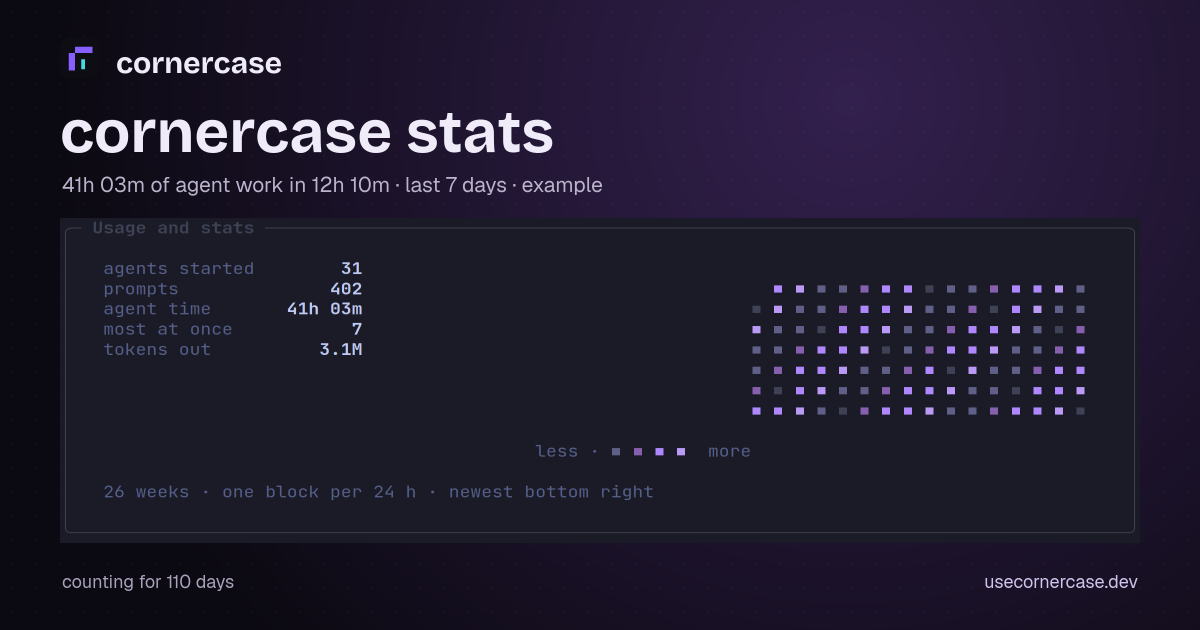
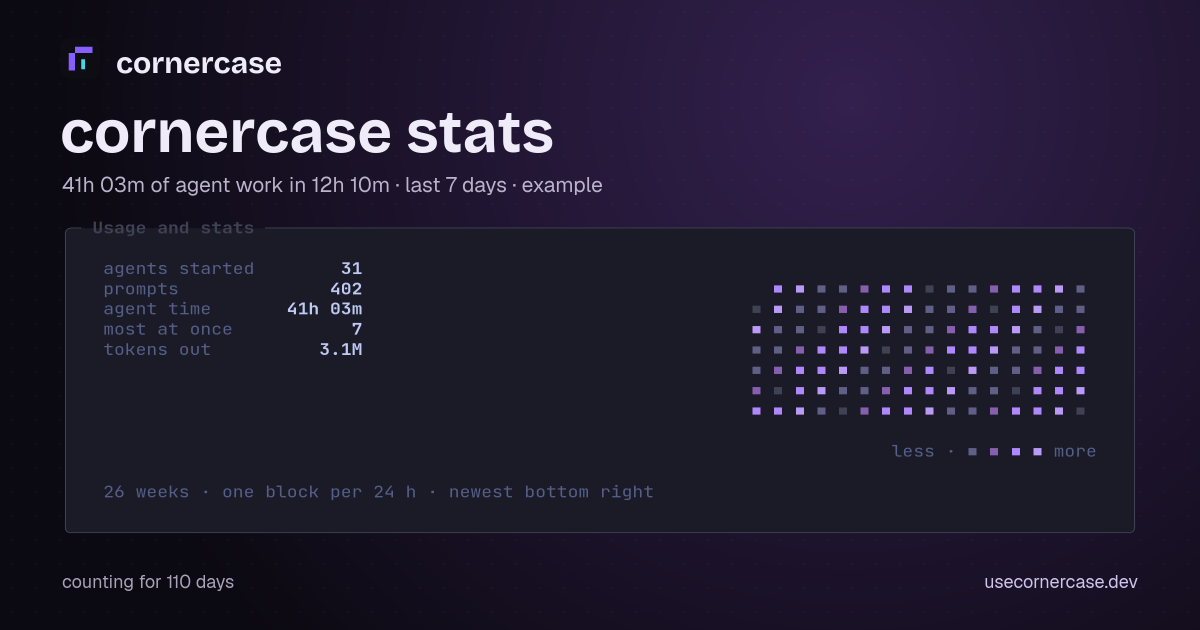
fix: preserve agent starts and refine stats rendering

diff --git a/site/src/lib/stats/card.ts b/site/src/lib/stats/card.ts
@@ -14,9 +14,9 @@ export function cardGrid(stats: Stats, window: WindowName): Grid {
     const level = stats.levels[i];
     if (level !== undefined) grid.put(44 + week * 2, 3 + row, '■', { fg: ramp[level] });
   }
-  grid.text(44, 11, 'less · ', { fg: 8 });
-  for (let level = 1; level <= 4; level++) grid.put(49 + level * 2, 11, '■', { fg: ramp[level] });
-  grid.text(60, 11, 'more', { fg: 8 });
+  grid.text(77, 11, 'less · ', { fg: 8 });
+  for (let level = 1; level <= 4; level++) grid.put(82 + level * 2, 11, '■', { fg: ramp[level] });
+  grid.text(92, 11, 'more', { fg: 8 });
   grid.text(4, 13, '26 weeks · one block per 24 h · newest bottom right', { fg: 8 });
   return grid;
 }
@@ -45,9 +45,12 @@ export function drawCard(canvas: HTMLCanvasElement, stats: Stats, window: Window
   const n = stats.windows[window];
   ctx.font = '400 21px "Geist Variable"'; ctx.fillStyle = '#bbb3cb';
   ctx.fillText(`${duration(n[2])} of agent work in ${duration(n[3])} · ${LABELS[window]}${example ? ' · example' : ''}`, 62, 192);
-  const terminal = document.createElement('canvas'); const view = new CanvasView(terminal);
+  const terminal = document.createElement('canvas'); const view = new CanvasView(terminal, undefined, true);
   view.measure(1080, 100, 16, 2); view.draw(cardGrid(stats, window), null, false, true);
   const y = preview ? 218 : 231; const h = preview ? 325 : 359.4;
+  const cw = 1080 / 100, ch = h / 16;
+  ctx.fillStyle = view.theme.background;
+  ctx.beginPath(); ctx.roundRect(60 + cw / 2, y + ch / 2, 1080 - cw, h - ch, cw / 2); ctx.fill();
   ctx.drawImage(terminal, 60, y, 1080, h);
   ctx.font = '400 18px "Geist Variable"'; ctx.fillStyle = '#aaa2ba';
   ctx.fillText(`counting for ${stats.days} days`, 62, preview ? 588 : 634);

diff --git a/site/tests/usage.test.ts b/site/tests/usage.test.ts
@@ -6,13 +6,16 @@ import { usageArea } from '../src/lib/demo/layout';
 
 for (const columns of [110, 46]) test(`Usage opens on Stats and keeps its border at ${columns} columns`, () => {
   const app = new App(); app.virtual = true; app.resize(columns, 38); world(app, { scripted: true });
-  app.openUsage(); app.render();
+  app.openUsage(); const { grid } = app.render();
   assert.equal(app.usage.page, 1); assert.equal(app.usage.loading, false);
   assert.ok(app.textAt('agents started')); assert.ok(app.textAt('tokens from cache')); assert.ok(app.textAt('share'));
-  const height = columns === 110 ? 21 : 23;
+  const height = columns === 110 ? 22 : 24;
   const stats = usageArea(columns, 38, height);
   const label = app.textAt('agents started'); assert.ok(label);
   assert.equal(label.x, stats.x + 2);
+  const share = app.textAt('share'); assert.ok(share);
+  const blank = grid.line(share.y - 1);
+  assert.equal(blank.slice(stats.x + 1, stats.x + stats.w - 1).trim(), '');
   app.usagePage(0); app.render(); assert.equal(app.usage.loading, true);
   assert.deepEqual(usageArea(columns, 38, height), stats);
   app.advance(1500); app.render(); assert.ok(app.textAt('resets in'));

diff --git a/site/src/lib/term/canvas.ts b/site/src/lib/term/canvas.ts
@@ -30,9 +30,9 @@ export class CanvasView {
   onImage: (() => void) | null = null;
   private pictures = new Map<string, HTMLImageElement>();
 
-  constructor(canvas: HTMLCanvasElement, t: Theme = defaultTheme) {
+  constructor(canvas: HTMLCanvasElement, t: Theme = defaultTheme, private transparent = false) {
     this.canvas = canvas;
-    const ctx = canvas.getContext('2d', { alpha: false });
+    const ctx = canvas.getContext('2d', { alpha: transparent });
     if (!ctx) throw new Error('no 2d context');
     this.ctx = ctx;
     this.theme = t;
@@ -68,8 +68,8 @@ export class CanvasView {
     const { ctx, cwD, chD } = this;
     const t = this.theme;
     ctx.globalAlpha = 1;
-    ctx.fillStyle = t.background;
-    ctx.fillRect(0, 0, this.canvas.width, this.canvas.height);
+    if (this.transparent) ctx.clearRect(0, 0, this.canvas.width, this.canvas.height);
+    else { ctx.fillStyle = t.background; ctx.fillRect(0, 0, this.canvas.width, this.canvas.height); }
     const lw = Math.max(1, Math.round(this.dpr));
     const ops = paint(grid, { cw: cwD, ch: chD, lw, snap: Math.round, theme: t });
     const size = cwD / 0.6;

diff --git a/site/tests/stats.test.ts b/site/tests/stats.test.ts
@@ -66,3 +66,9 @@ test('the first counting day shares its current heatmap square', () => {
   assert.ok(link.endsWith('&days=0&map=IA'));
   assert.deepEqual(parse(new URL(link).hash)?.levels, [1]);
 });
+
+test('the legend ends at the right edge of the heatmap', () => {
+  const grid = cardGrid(EXAMPLE, '7d');
+  assert.equal(grid.line(11).slice(77, 96), 'less · ■ ■ ■ ■ more');
+  assert.equal(grid.line(11).slice(1, 77).trim(), '');
+});

diff --git a/site/src/lib/demo/ui.ts b/site/src/lib/demo/ui.ts
@@ -1148,6 +1148,7 @@ export class Painter {
     const legend: Line = [seg('less · ', DARK), ...[1,2,3,4].map((level) => seg('■ ', { fg: ramp[level] })), seg('more', DARK)];
     if (left.length + 19 > width) lines.push([seg(left, DARK)], legend);
     else lines.push([seg(left + ' '.repeat(width - left.length - 19), DARK), ...legend]);
+    lines.push([]);
     return lines;
   }
 

diff --git a/src/context.rs b/src/context.rs
@@ -269,7 +269,7 @@ impl Subagents {
                 let records = batch
                     .bytes
                     .split(|b| *b == b'\n')
-                    .filter_map(|line| serde_json::from_slice::<Value>(line).ok())
+                    .filter_map(claude_entry)
                     .filter_map(|entry| counted_claude(&entry, false))
                     .collect();
                 self.records.push((path.clone(), records));
@@ -396,13 +396,24 @@ impl Transcript {
         }
         let read_at = SystemTime::now();
         for line in batch.bytes.split(|b| *b == b'\n') {
-            let Ok(entry) = serde_json::from_slice::<Value>(line) else { continue };
+            let Some(entry) = claude_entry(line) else { continue };
             self.prompted = self.prompted.max(prompt(&entry, read_at));
             if let Some(record) = counted_claude(&entry, true) {
                 self.counted.push(record);
             }
         }
     }
+}
+
+fn relevant_claude(line: &str) -> bool {
+    [r#""usage""#, r#""origin""#, "queued_command", COMMAND, SHELL_INPUT, r#""operation""#, COMPACT_BOUNDARY]
+        .iter()
+        .any(|marker| line.contains(marker))
+}
+
+fn claude_entry(line: &[u8]) -> Option<Value> {
+    let line = std::str::from_utf8(line).ok()?;
+    relevant_claude(line).then(|| serde_json::from_str(line).ok()).flatten()
 }
 
 fn text(entry: &Value) -> &str {
@@ -464,7 +475,7 @@ enum Mark {
 
 fn mark(line: &[u8]) -> Option<Mark> {
     let line = std::str::from_utf8(line).ok()?;
-    if !line.contains(ASSISTANT) && !line.contains(COMPACT_BOUNDARY) {
+    if !(line.contains(COMPACT_BOUNDARY) || line.contains(ASSISTANT) && line.contains(r#""usage""#)) {
         return None;
     }
     let entry: Entry = serde_json::from_str(line).ok()?;
@@ -1242,6 +1253,30 @@ mod counting_records {
     use crate::test_util::{TempDir, wait_until};
 
     const FIXTURE: &str = include_str!("../tests/fixtures/claude/2.1.296/usage.jsonl");
+
+    #[rstest::rstest]
+    #[case::reply(r#"{"type":"assistant","message":{"usage":{"output_tokens":1}}}"#, true)]
+    #[case::typed(r#"{"type":"user", "origin": {"kind":"human"}}"#, true)]
+    #[case::absorbed(r#"{"type":"attachment","attachment":{"type":"queued_command"}}"#, true)]
+    #[case::queued(r#"{"type":"queue-operation", "operation": "enqueue"}"#, true)]
+    #[case::slash(r#"{"type":"system","content":"<command-name>/synthetic"}"#, true)]
+    #[case::shell(r#"{"type":"user","message":{"content":"<bash-input>synthetic"}}"#, true)]
+    #[case::compacted(r#"{"type":"system","subtype":"compact_boundary"}"#, true)]
+    #[case::tool_result(
+        r#"{"type":"user","message":{"content":[{"type":"tool_result","content":"synthetic"}]}}"#,
+        false
+    )]
+    #[case::tool_input(
+        r#"{"type":"assistant","message":{"content":[{"type":"tool_use","input":{"content":"synthetic"}}]}}"#,
+        false
+    )]
+    #[case::metadata(r#"{"type":"file-history-snapshot","snapshot":{}}"#, false)]
+    fn only_lines_that_can_change_context_or_counts_reach_json_parsing(#[case] line: &str, #[case] relevant: bool) {
+        assert_eq!(relevant_claude(line), relevant);
+        assert_eq!(claude_entry(line.as_bytes()).is_some(), relevant);
+        let large = line.replace("synthetic", &"x".repeat(300_000));
+        assert_eq!(claude_entry(large.as_bytes()).is_some(), relevant);
+    }
 
     #[test]
     fn repeated_message_usage_and_conversation_resets_count_once() {

diff --git a/src/stats.rs b/src/stats.rs
@@ -182,6 +182,7 @@ pub struct Stats {
     total: Bucket,
     hours: BTreeMap<u64, Bucket>,
     previous: HashMap<u64, Sample>,
+    started: HashMap<u64, (Kind, i32)>,
     revision: u64,
     pruned_hour: Option<u64>,
 }
@@ -226,6 +227,7 @@ impl Stats {
             total: Bucket::default(),
             hours: BTreeMap::new(),
             previous: HashMap::new(),
+            started: HashMap::new(),
             revision: 0,
             pruned_hour: None,
         }
@@ -253,7 +255,7 @@ impl Stats {
         let mut simultaneous = 0;
         let mut busy = false;
         for &sample in samples {
-            if self.previous.get(&sample.pane).is_none_or(|s| (s.kind, s.pid) != (sample.kind, sample.pid))
+            if self.started.insert(sample.pane, (sample.kind, sample.pid)) != Some((sample.kind, sample.pid))
                 && !sample.resuming
             {
                 self.add(now, sample.kind, Counts { agents: 1, ..Counts::default() });
@@ -722,7 +724,7 @@ pub(crate) mod tests {
         assert_eq!((c.agent_seconds, c.turns, c.waited_seconds), (1.0, 2, 2.0));
     }
     #[test]
-    fn automatic_resumes_are_suppressed_and_reused_pids_count_as_new_agents() {
+    fn automatic_resumes_stay_suppressed_after_a_foreground_absence() {
         let mut stats = Stats::new(at(1_000));
         let mut s = working(1, Kind::Claude);
         s.resuming = true;
@@ -733,9 +735,19 @@ pub(crate) mod tests {
         stats.sample(at(1_000), Duration::ZERO, &[]);
         assert!(stats.previous.is_empty());
         stats.sample(at(1_000), Duration::ZERO, &[s]);
+        assert_eq!(stats.view(at(1_000)).windows["total"].counts.agents, 0);
+    }
+
+    #[test]
+    fn an_agent_returning_from_an_editor_counts_only_when_its_pid_changes() {
+        let mut stats = Stats::new(at(1_000));
+        let mut sample = working(1, Kind::Claude);
+        stats.sample(at(1_000), Duration::ZERO, &[sample]);
+        stats.sample(at(1_000), Duration::ZERO, &[]);
+        stats.sample(at(1_000), Duration::ZERO, &[sample]);
         assert_eq!(stats.view(at(1_000)).windows["total"].counts.agents, 1);
-        s.pid = 2;
-        stats.sample(at(1_000), Duration::ZERO, &[s]);
+        sample.pid = 2;
+        stats.sample(at(1_000), Duration::ZERO, &[sample]);
         assert_eq!(stats.view(at(1_000)).windows["total"].counts.agents, 2);
     }
     #[test]

diff --git a/src/ui/stats.rs b/src/ui/stats.rs
@@ -25,7 +25,9 @@ pub(super) fn lines(colours: (Color, Color, bool), stats: &stats::View, width: u
     let colour = |level| shade(line, light, level);
     let dim = Style::default().fg(muted);
     if stats.empty {
-        return markdown::wrap_text(stats::EMPTY, dim, width);
+        let mut lines = markdown::wrap_text(stats::EMPTY, dim, width);
+        lines.push(Line::default());
+        return lines;
     }
     let mut lines = markdown::wrap_text(&stats.headline(true), Style::default(), width);
     lines.push(Line::default());
@@ -71,5 +73,6 @@ pub(super) fn lines(colours: (Color, Color, bool), stats: &stats::View, width: u
     }
     spans.extend(legend);
     lines.push(Line::from(spans));
+    lines.push(Line::default());
     lines
 }

diff --git a/DESIGN.md b/DESIGN.md
@@ -231,18 +231,18 @@ Why cornercase works the way it does, area by area. The rules every change follo
 
 ## Stats (`stats.rs`)
 
-- Counts begin with this feature and only for Claude Code, Codex, Gemini CLI and opencode in this server's panes. No histories are imported. `Stats` takes wall times and durations, with fixed times in its unit tests; `App::watch_agents` supplies the wall clock and the `Instant` delta. A start is a changed `(kind, foreground pid)` in a pane, suppressed while the pane is automatically resuming. Only the last sample per currently observed pane is kept: a stopped agent can start again with a reused pid, and closed panes do not leave a growing set behind. The context pane remembers the first observation even before its record exists. Manual resumes start a process and count. Working excludes `Activity::Shell`, as keeping awake does. A turn counts working or waiting → idle, done or shell. Waiting and unseen done accumulate `Status::needs_you` time.
+- Counts begin with this feature and only for Claude Code, Codex, Gemini CLI and opencode in this server's panes. No histories are imported. `Stats` takes wall times and durations, with fixed times in its unit tests; `App::watch_agents` supplies the wall clock and the `Instant` delta. A start is a changed `(kind, foreground pid)` in a pane, suppressed while the pane is automatically resuming. Start identity is kept separately from the previous activity sample, as one last `(kind, pid)` per pane. An absence does not clear it: Claude's foreground editor must not count as another start when Claude returns. A different pair replaces it, so reused pids following another agent count. Closing panes has no dedicated counting lifecycle; retaining a small numeric entry per pane opened is simpler than adding one. The context pane remembers the first observation even before its record exists. Manual resumes start a process and count. Working excludes `Activity::Shell`, as keeping awake does. A turn counts working or waiting → idle, done or shell. Waiting and unseen done accumulate `Status::needs_you` time.
 - Intervals belong to the previous sample's state, ending at the new read: finishing must not discard the final half second of work, and entering a waiting state must not charge that preceding work to waiting. No duration is charged on first observation or across a changed process. Each interval is capped at two seconds. Integer milliseconds preserve the half-second samples without float drift; command JSON reports fractional seconds, while share links floor seconds. Busy time is global time with any matching previous sample working; removed or replaced processes cannot extend it, keeping busy time within summed agent time; peak parallelism is a maximum of current working samples. The three windows are current epoch hour plus 23 or 167 preceding hours, and a separate lifetime total. Records use their own timestamp's hour; samples use the read's wall-clock hour. Per-kind counters hold starts, prompts, turns, working/waiting milliseconds and four token kinds; busy time and peak are global.
-- `context/counting.rs::Ledger` keeps each conversation's prompt high-water time and recent ids, reply high-water time and last maximum token values per id, bounded to 512 of each. It stays in the context pane across conversation switches, `/clear`, `/resume`, truncation and replacement, and is reset only when the agent process changes. Full id maps are retained for only the 16 conversations most recently used by nonempty record batches. Older conversations keep only prompt/reply cutoff times and a cumulative time/token baseline; returning seeds these cutoffs, so old records cannot count again. This bounds expensive id storage while preserving counting once across arbitrarily many conversation switches; compact numeric cutoffs remain until the process exits. Evicted records older than the high-water time cannot be counted again. An eviction also records a cutoff that excludes unknown ids at that same timestamp: with more than 512 ids sharing one instant, preferring an undercount to a replay double count keeps bounded memory and the counting-once guarantee. Records without a parseable time, and those before first observing the process, contribute nothing. Confirmation retains its existing permissive rule for missing times. Claude's shell input is excluded from stats while it can still confirm a send. Typed slash commands count, but enqueue records only confirm a send. Claude Code records a queued human prompt either as an absorbed `attachment` (`queued_command`, `commandMode: prompt`, `origin.kind: human`) or, after dequeue, a human `user` record. Stats counts those final records by their uuid and timestamp, never the enqueue, task notifications or peer origins. The synthetic queued-prompts fixture covers both paths, each once. Confirmation and counting use the same parsed JSON value, keeping their different rules explicit.
+- `context/counting.rs::Ledger` keeps each conversation's prompt high-water time and recent ids, reply high-water time and last maximum token values per id, bounded to 512 of each. It stays in the context pane across conversation switches, `/clear`, `/resume`, truncation and replacement, and is reset only when the agent process changes. Full id maps are retained for only the 16 conversations most recently used by nonempty record batches. Older conversations keep only prompt/reply cutoff times and a cumulative time/token baseline; returning seeds these cutoffs, so old records cannot count again. This bounds expensive id storage while preserving counting once across arbitrarily many conversation switches; compact numeric cutoffs remain until the process exits. Evicted records older than the high-water time cannot be counted again. An eviction also records a cutoff that excludes unknown ids at that same timestamp: with more than 512 ids sharing one instant, preferring an undercount to a replay double count keeps bounded memory and the counting-once guarantee. Records without a parseable time, and those before first observing the process, contribute nothing. Confirmation retains its existing permissive rule for missing times. Claude's shell input is excluded from stats while it can still confirm a send. Typed slash commands count, but enqueue records only confirm a send. Claude Code records a queued human prompt either as an absorbed `attachment` (`queued_command`, `commandMode: prompt`, `origin.kind: human`) or, after dequeue, a human `user` record. Stats counts those final records by their uuid and timestamp, never the enqueue, task notifications or peer origins. The synthetic queued-prompts fixture covers both paths, each once. Confirmation and counting use the same parsed JSON value, keeping their different rules explicit. A substring gate before parsing accepts usage, origin, queued-command attachments, queue operations, slash commands, shell input and compact boundaries. Ordinary tool results, inputs without usage and metadata skip JSON allocation, including on a resumed pane's initial MiB. The subagent job uses the same gate; the context marker also skips assistant lines without usage.
 - Every reader produces only timestamp/id/numeric observations during its existing pass. Gemini and opencode still do their reading on their existing background jobs. Claude now shares Codex and Gemini's bounded `jsonl::Tail`, keeping deletion and truncation behavior; its subagent files use the same tail on one background job per pane, so enumerating or reading many Task transcripts cannot block the server loop. Claude main and subagent transcripts keep separate conversation ledgers. The subagent directory is re-listed only when its modification time or path changes. A transcript modified before the pane began starts at EOF, including skipping any old partial line, so a resumed conversation does not read a MiB of every old Task file; subsequent complete appended records still count. Subagents and old `isSidechain` records add tokens only, never prompts or sampled activity. These transient ids and paths never enter `stats.json`, a share link or the stats log.
 - Token semantics were checked against installed Claude Code 2.1.296, Gemini CLI 0.63.0 and opencode 1.18.35 sources, and read-only numeric record shapes. Claude repeats the same usage per `message.id` across content blocks and writes Task transcripts under `projects/<dir>/<sessionId>/subagents/agent-*.jsonl`; each id contributes only positive changes. Its output already includes thinking. Codex counts cumulative `total_token_usage` differences, with `last_token_usage` only when no preceding baseline was read. Repeats add zero; a lower total starts a new baseline. Input excludes cached input; output includes reasoning. opencode's installed accounting subtracts `reasoningTokens` from stored `tokens.output` (and its newer usage object exposes `visibleOutputTokens` with the same subtraction): add stored output and reasoning. Count a completed id only once, at `time.completed`. Its numeric records also showed total = input + output + reasoning + cache kinds. Subagent sessions remain excluded.
 - Gemini's installed `recordMessageTokens` maps `input` to `promptTokenCount`, `cached` to `cachedContentTokenCount`, `output` to `candidatesTokenCount`, `thoughts` to `thoughtsTokenCount`, and `tool` to `toolUsePromptTokenCount`. Cached input is part of input: inspected numeric records had total = input + output + thoughts, with substantial cached values, and [the API's usage definition](https://googleapis.github.io/js-genai/release_docs/interfaces/types.UsageMetadata.html) describes cached content as part of the prompt. `tool` is separate API tool-use prompt usage, not generated output or the CLI's local function-response text. It is omitted in v1 as specified: no extra invented input category. A rewritten reply adds only increases over its last values; a `$set.messages` restore retains deduplication state and cannot add old history. Synthetic versioned fixtures record these shapes without copying conversation text.
 - `stats.json` lives next to `session.json`, including private instances selected by `CORNERCASE_SOCKET`. Version 1 is compact JSON: `since` in Unix seconds, a separate total, and sparse `hours` arrays `[epoch_hour, [claude, codex, gemini, opencode], busy_ms, most_at_once]`. Each agent's array is `[agents, prompts, turns, agent_ms, waited_ms, input, output, cache_read, cache_write]`. The total uses named counters for inspection; hours use arrays to keep months of data small. Keep 26 weeks and one day, pruning only when the epoch hour changes; snapshots also filter retention. Missing, corrupt or unknown versions begin empty. Every numeric mutation increments `Stats::revision`. `stats::Saver` observes only that number until a minute has passed from the first dirty instant, then builds one `Saved` directly for writing; it keeps no cloned saved or pending buckets. Shutdown and restart flush the current changed revision. This removes full-map serialization, comparison and cloning from the half-second server save steps. Shared `state::write` atomically renames a temporary file, writes compact private files at 0600 and syncs them; secrets reuse it too. The ordinary session and TODO savers retain their quiet-time policy.
-- Usage opens on Stats and remembers its page only for the server run. Limits probes run only when that tab shows, including reopening there. The tab row reuses settings' geometry and drawing. Tab, BackTab and horizontal arrows switch pages; Enter, Esc, done and a press outside close the dialog. Height is the larger of the limits body and the actual stats lines at the dialog width, plus tabs and buttons, clipped to the screen while keeping done. Computing height from the same lines used for drawing removes the three unused wide rows while accounting for wrapped phone headlines and legends. Below 49 screen columns the dialog takes the full width, with the usual one-cell padding inside each border, leaving 42 text columns at 46 columns. Labels of 18 and three seven-column values then have explicit one-column gaps, so full durations cannot run together. Narrow legends wrap to a second line. Shared stats number formats drive the dialog and plain command output; counts below 10000 stay whole, larger thousands keep one decimal, tokens use k/M/B, and durations use minutes or hours/minutes.
+- Usage opens on Stats and remembers its page only for the server run. Limits probes run only when that tab shows, including reopening there. The tab row reuses settings' geometry and drawing. Tab, BackTab and horizontal arrows switch pages; Enter, Esc, done and a press outside close the dialog. Height is the larger of the limits body and the actual stats lines at the dialog width, plus tabs and buttons, clipped to the screen while keeping done. Stats ends with one blank line separating its content from share/done, including the empty state, as in Limits and other dialogs. Computing height from the same lines used for drawing removes the three unused wide rows while accounting for wrapped phone headlines and legends. Below 49 screen columns the dialog takes the full width, with the usual one-cell padding inside each border, leaving 42 text columns at 46 columns. Labels of 18 and three seven-column values then have explicit one-column gaps, so full durations cannot run together. Narrow legends wrap to a second line. Shared stats number formats drive the dialog and plain command output; counts below 10000 stay whole, larger thousands keep one decimal, tokens use k/M/B, and durations use minutes or hours/minutes.
 - Heatmap blocks are the preceding 24-hour buckets from the current hour, newest at the bottom right, up to 26 seven-block columns. They are rolling blocks, not weekdays. The quartile boundaries are the nearest-rank 25th, 50th and 75th percentiles of positive displayed blocks; ties share their level. Any block overlapping the counting period appears, including the first incomplete day and the block containing `since`. The share map therefore contains `min(days + 1, 182)` levels, while `days` remains whole counting days. This deliberately changes the issue's `min(days, 182)` contract: hiding the first day and the oldest partial block omitted work already included in the counters. Rust, the strict site parser and the shared fixture enforce the revised contract. Before counting is blank, zeros take the line colour. Dark purples are 60, 97, 141, 99, ending in brand purple; light purples are 189, 141, 99, 55, ending darker so the maximum remains visible. Snapshots cover both. The site's term renderer draws U+25A0 as a snapped square with equal sides, independent of font fallback.
 - `cornercase stats` requests live memory without starting a server; with none running, it loads the file. JSON includes every window counter and all four kinds, plus 182 blocks newest first. Text uses the same formatting and `·░▒▓█`, written through the existing closed-pipe-safe output function. Unknown-command refusals retain the normal old-server behavior. `--share` and the Stats share pill use the same pure link builder; the pill copies with OSC 52 and a toast only after something was counted.
 - Sharing is opt-in copying, never uploading. The constant URL is `https://usecornercase.dev/stats/#v1`; fields are `24h`, `7d`, `all` (agents, prompts, whole agent seconds, whole busy seconds, peak, output tokens), whole counting `days`, and `map`. Pack three bits per level, newest first, most significant bit first within each byte; unused trailing bits are zero. Base64url has no padding. The shared fixture contains an exact link, its windows and nonzero levels, checked by Rust and the site. Waiting, turns, input/cache use, agent breakdowns, models, project names and paths are omitted. Anyone with the link sees its numbers.
-- `/stats/` is an English static page, with no analytics or third-party script. Its strict whole-fragment expression, 512-character cap, safe integer checks, exact decoded map size, legal levels, canonical base64url and zero trailing bits reject crafted links before drawing. No text goes through HTML. CSP permits only self scripts/styles/fonts, self/blob/data images and no network connections. The fragment never reaches the host. No fragment shows an explicitly marked example. The default card window is seven days, with tabs for 24 h and total. A shared drawer produces a 1200×675 card at 2× resolution with the hero glow/grid, logo, Bricolage headline, Geist prose and a JetBrains Mono `CanvasView` terminal. Font loading completes before drawing. PNG download, supported clipboard and file sharing run entirely in the browser. Intent links carry the public share URL; the written post text is visible for copying, and the page tells users to attach the PNG because crawlers cannot read fragments. `stats-og.png` is a 1200×630 example titled cornercase stats, rendered with the same drawer in preview mode.
+- `/stats/` is an English static page, with no analytics or third-party script. Its strict whole-fragment expression, 512-character cap, safe integer checks, exact decoded map size, legal levels, canonical base64url and zero trailing bits reject crafted links before drawing. No text goes through HTML. CSP permits only self scripts/styles/fonts, self/blob/data images and no network connections. The fragment never reaches the host. No fragment shows an explicitly marked example. The default card window is seven days, with tabs for 24 h and total. A shared drawer produces a 1200×675 card at 2× resolution with the hero glow/grid, logo, Bricolage headline, Geist prose and a JetBrains Mono `CanvasView` terminal. Font loading completes before drawing. The heatmap legend is right-aligned beneath its 26-column plot. The card uses CanvasView's optional transparent background, with a rounded fill drawn at the grid border's half-cell inset and radius, so the title stays visible without a rectangular terminal background protruding beyond the frame. Ordinary terminal canvases keep their opaque background. PNG download, supported clipboard and file sharing run entirely in the browser. Intent links carry the public share URL; the written post text is visible for copying, and the page tells users to attach the PNG because crawlers cannot read fragments. `stats-og.png` is a 1200×630 example titled cornercase stats, rendered with the same drawer in preview mode.
 
 ## Keeping awake (`awake.rs`)
 
